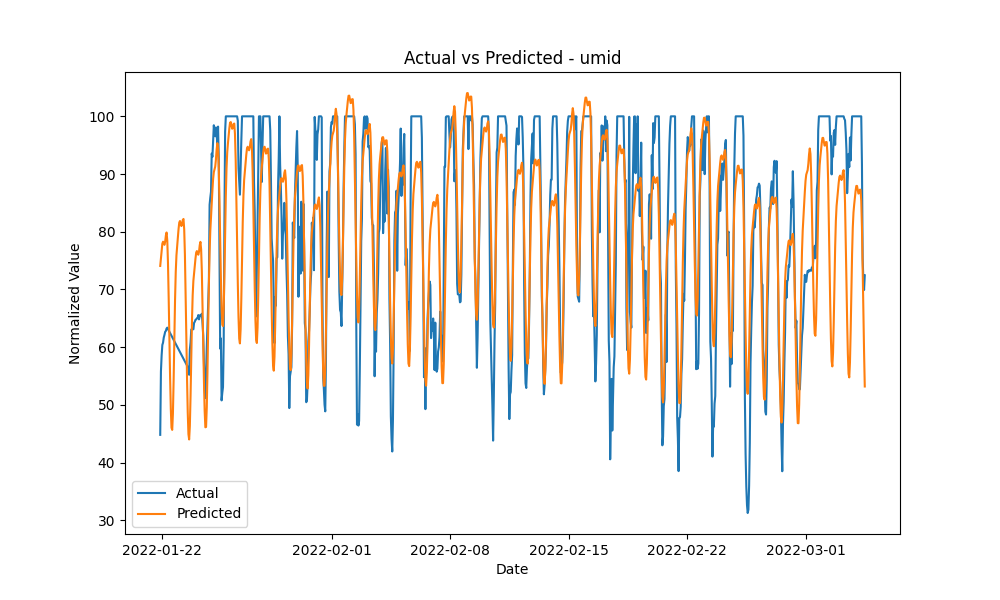
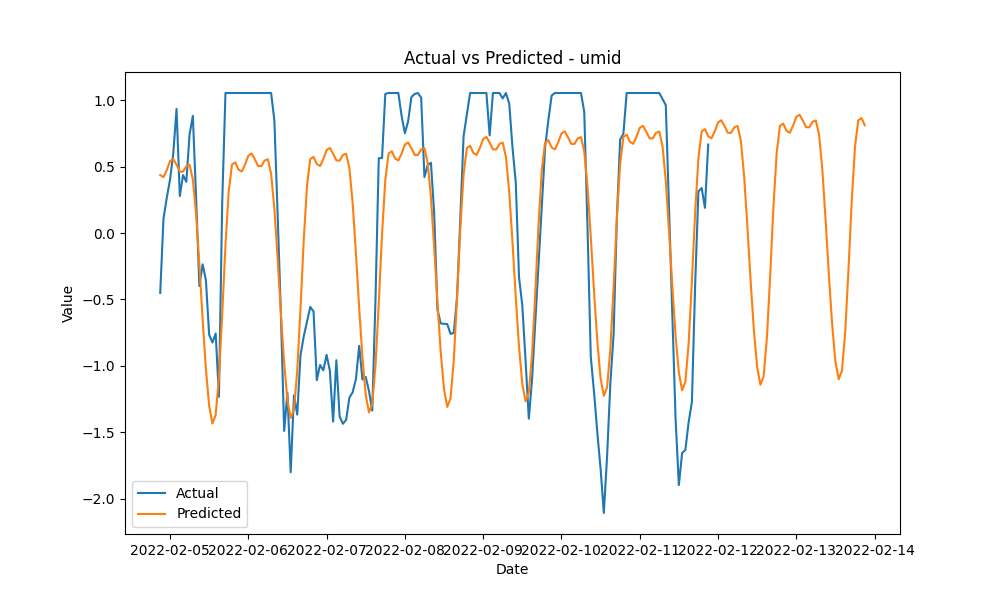
updated plots and fixed mse

diff --git a/prophet_analysis.py b/prophet_analysis.py
@@ -1,10 +1,127 @@
+# import pandas as pd
+# from prophet import Prophet
+# from prophet.diagnostics import cross_validation, performance_metrics
+# from prophet.plot import plot_cross_validation_metric
+# from matplotlib import pyplot as plt
+# import os
+#
+# df = pd.read_csv('SensorMLDataset_small.csv')  # input the path to the CSV file here
+# labels = df.columns
+#
+#
+# def predict(start=0, end=168, week=0, echo=True):
+#     """Trains a Prophet model on the variables from the provided CSV file
+#         Parameters
+#         ----------
+#         start : int, optional
+#             The start row from the CSV file from which the training begins (default is 0)
+#         end : int, optional
+#             The end row from the CSV file up to which the model trains (default is 168, as the current CSV
+#             file has hourly data, meaning first week)
+#         week: int, optional
+#             Train on the data from the specified week (default is 0). If provided, it ignores start and end parameters
+#         echo: bool, optional
+#             Enables or disables prediction outputs, as well as display of predicted_vs_actual plots (default is True)
+#         Returns
+#         -------
+#         list
+#             a list of the models trained on the variables from the CSV file
+#         """
+#     df[labels[0]] = pd.to_datetime(df[labels[0]], format='%m/%d/%Y %H:%M')
+#     if week - 1 > df.__len__() // 168:
+#         print("Not enough weeks in the dataset. Defaulting to start, end parameters.")
+#     else:
+#         if week != 0:
+#             start = (week - 1) * 168
+#             end = (start + 169) % 1001
+#     models = []  # for each column, train the model on that variable and add it to the list
+#     if not os.path.exists("predicted_vs_actual_plots"):
+#         os.makedirs("predicted_vs_actual_plots")
+#
+#     for label in labels[1:]:
+#         df_temp = df[[labels[0], label]].copy() # make a copy to prevent unexpected modyfing by reference
+#
+#         if end + 48 > 1000:
+#             end -= 48
+#         actual_df = df_temp[start:(end + 48)].copy()
+#         actual_df.columns = ['ds', 'y']
+#
+#         ts = df_temp[start:end].copy()
+#         ts.columns = ['ds', 'y']
+#
+#         model = Prophet()
+#         model.fit(ts)
+#
+#         future = model.make_future_dataframe(periods=48, freq='H')
+#         forecast = model.predict(future)
+#
+#         file_path = f"predicted_vs_actual_plots/predicted_vs_actual_{label}_values.png"
+#         forecast.rename(columns={"ds": "Timestamp", "yhat": "Predicted Value"}, inplace=True)
+#
+#         if echo:
+#             print(f"----------- {label} ------------")
+#             print(forecast[['Timestamp', 'Predicted Value']].tail(48))
+#
+#         plt.figure(figsize=(10, 6))
+#         plt.plot(actual_df['ds'], actual_df['y'], label='Actual')
+#         plt.plot(forecast['Timestamp'], forecast['Predicted Value'], label='Predicted')
+#         plt.xlabel('Date')
+#         plt.ylabel('Value')
+#         plt.title(f'Actual vs Predicted - {label}')
+#         plt.legend()
+#         plt.savefig(file_path)
+#         # if echo:
+#         #     plt.show()
+#         plt.close('all')
+#
+#         models += [model]
+#
+#     return models  # return trained models
+#
+#
+# def get_cross_validation(echo=True):
+#     """Computes the error at training using time-series cross validation on the entire dataset.
+#     It outputs the calculated error plots for each variable as a .PNG file
+#     Parameters
+#     ----------
+#         echo: bool, optional
+#             Enables or disables computed errors outputs (default is True)
+#     """
+#     models = predict(0, df.__len__(), echo=False)
+#     print("----- Computing time series cross-validation -----")
+#     df_cv = []
+#     if not os.path.exists("cross_validation_values"):
+#         os.makedirs("cross_validation_values")
+#     for i, model in enumerate(models):
+#         df_cv += [
+#             cross_validation(model, initial='168 hours', period='168 hours', horizon='48 hours')]
+#
+#         df_cross_err = df_cv[i]
+#         df_p = performance_metrics(df_cross_err)
+#         if echo:
+#             print(f"---------{labels[i + 1]}---------\n", df_p.tail(1))
+#         try:
+#             plot_cross_validation_metric(pd.DataFrame(df_cross_err), metric='mape').savefig(
+#                 f"cross_validation_values/MAPE - {str(labels[i + 1])}.png")
+#         except TypeError:
+#             plot_cross_validation_metric(pd.DataFrame(df_cross_err), metric='mae').savefig(
+#                 f"cross_validation_values/MAE - {str(labels[i + 1])}.png")
+#
+#
+# def main():
+#     predict(week=3)
+#     get_cross_validation()
+#
+#
+# if __name__ == '__main__':
+#     main()
 import pandas as pd
 from prophet import Prophet
 from prophet.diagnostics import cross_validation, performance_metrics
 from prophet.plot import plot_cross_validation_metric
 from matplotlib import pyplot as plt
-from sklearn.preprocessing import MinMaxScaler
 import os
+from sklearn.preprocessing import MinMaxScaler, StandardScaler
 
 df = pd.read_csv('SensorMLDataset_small.csv')  # input the path to the CSV file here
 labels = df.columns
@@ -22,7 +139,7 @@ def predict(start=0, end=168, week=0, echo=True):
         week: int, optional
             Train on the data from the specified week (default is 0). If provided, it ignores start and end parameters
         echo: bool, optional
-            Enables or disables prediction outputs, as well as display of predicted_vs_actual plots (default is True)
+            Enables or disables prediction outputs (default is True)
         Returns
         -------
         list
@@ -34,25 +151,17 @@ def predict(start=0, end=168, week=0, echo=True):
     else:
         if week != 0:
             start = (week - 1) * 168
-            end = (start + 169) % 1001
+            end = start + 169
     models = []  # for each column, train the model on that variable and add it to the list
-    if not os.path.exists("predicted_vs_actual_plots"):
-        os.makedirs("predicted_vs_actual_plots")
-
     for label in labels[1:]:
         df_temp = df[[labels[0], label]]
 
-        if end + 48 > 1000:
-            end -= 48
-        actual_df = df_temp[start:(end + 48)]
-        actual_df.columns = ['ds', 'y']
+        # Standardize the data
+        scaler = StandardScaler()
+        df_temp[label] = scaler.fit_transform(df_temp[[label]])
 
         ts = df_temp[start:end]
         ts.columns = ['ds', 'y']
-
-        # Normalize the target with minmax
-        scaler = MinMaxScaler()
-        ts['y'] = scaler.fit_transform(ts['y'].values.reshape(-1, 1)).flatten()
 
         model = Prophet()
         model.fit(ts)
@@ -60,31 +169,28 @@ def predict(start=0, end=168, week=0, echo=True):
         future = model.make_future_dataframe(periods=48, freq='H')
         forecast = model.predict(future)
 
-        # Inverse normalized predictions to get the original scale to then compare with the actual values
-        forecast['yhat'] = scaler.inverse_transform(forecast['yhat'].values.reshape(-1, 1)).flatten()
-
         file_path = f"predicted_vs_actual_plots/predicted_vs_actual_{label}_values.png"
-        forecast.rename(columns={"ds": "Timestamp", "yhat": "Predicted Value"}, inplace=True)
 
         if echo:
+            forecast.rename(columns={"ds": "Timestamp", "yhat": "Predicted Value"}, inplace=True)
             print(f"----------- {label} ------------")
             print(forecast[['Timestamp', 'Predicted Value']].tail(48))
-
-        plt.figure(figsize=(10, 6))
-        plt.plot(actual_df['ds'], actual_df['y'], label='Actual')
-        plt.plot(forecast['Timestamp'], forecast['Predicted Value'], label='Predicted')
-        plt.xlabel('Date')
-        plt.ylabel('Normalized Value')  # Update ylabel to reflect normalization
-        plt.title(f'Actual vs Predicted - {label}')
-        plt.legend()
-        plt.savefig(file_path)
-        # if echo:
-        #     plt.show()
-        plt.close('all')
+            print(f"forecast HEAD: {forecast.head()}")
+            plt.figure(figsize=(10, 6))
+            plt.plot(ts['ds'], ts['y'], label='Actual')
+            plt.plot(forecast['Timestamp'], forecast['Predicted Value'], label='Predicted')
+            plt.xlabel('Date')
+            plt.ylabel('Value')
+            plt.title(f'Actual vs Predicted - {label}')
+            plt.legend()
+            plt.savefig(file_path)
+            # plt.show()
+            plt.close()
 
         models += [model]
 
     return models  # return trained models
+
 
 
 def get_cross_validation(echo=True):
@@ -102,21 +208,32 @@ def get_cross_validation(echo=True):
         df_cv += [
             cross_validation(model, initial='168 hours', period='168 hours', horizon='48 hours')]
     i = 1
-    if not os.path.exists("cross_validation_values"):
-        os.makedirs("cross_validation_values")
     for df_cross_err in df_cv:
         df_p = performance_metrics(df_cross_err)
-
         if echo:
             print(f"---------{labels[i]}---------\n", df_p.tail(1))
-
-        # Check if MAPE is available, otherwise use MAE
-        metric_to_use = 'mape' if 'mape' in df_p.columns else 'mae'
-
-        plot_cross_validation_metric(pd.DataFrame(df_cross_err), metric=metric_to_use).savefig(
-            f"cross_validation_values/{metric_to_use.upper()} - {str(labels[i])}.png")
-
-        i += 1
+        try:
+            plot_cross_validation_metric(pd.DataFrame(df_cross_err), metric='mape')
+            plt.title(f'MAPE - {str(labels[i])}')
+            plt.xlabel('Horizon')
+            plt.ylabel('MAPE')
+            folder_path = 'cross_validation_values'
+            if not os.path.exists(folder_path):
+                os.makedirs(folder_path)
+            plt.savefig(os.path.join(folder_path, f"MAPE_{str(labels[i])}.png"))
+            plt.close()
+            i += 1
+        except TypeError:
+            plot_cross_validation_metric(pd.DataFrame(df_cross_err), metric='mae')
+            plt.title(f'MAE - {str(labels[i])}')
+            plt.xlabel('Horizon')
+            plt.ylabel('MAE')
+            folder_path = 'cross_validation_values'
+            if not os.path.exists(folder_path):
+                os.makedirs(folder_path)
+            plt.savefig(os.path.join(folder_path, f"MAE_{str(labels[i])}.png"))
+            plt.close()
+            i += 1
 
 
 def main():
